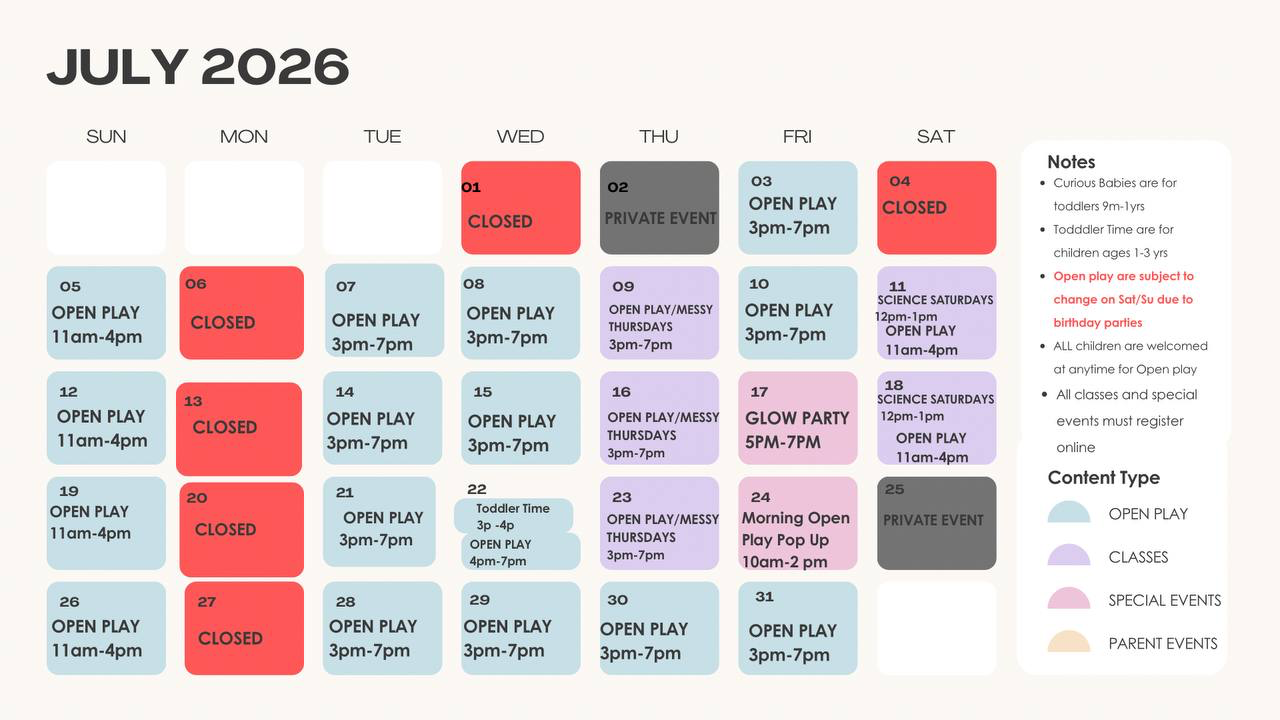
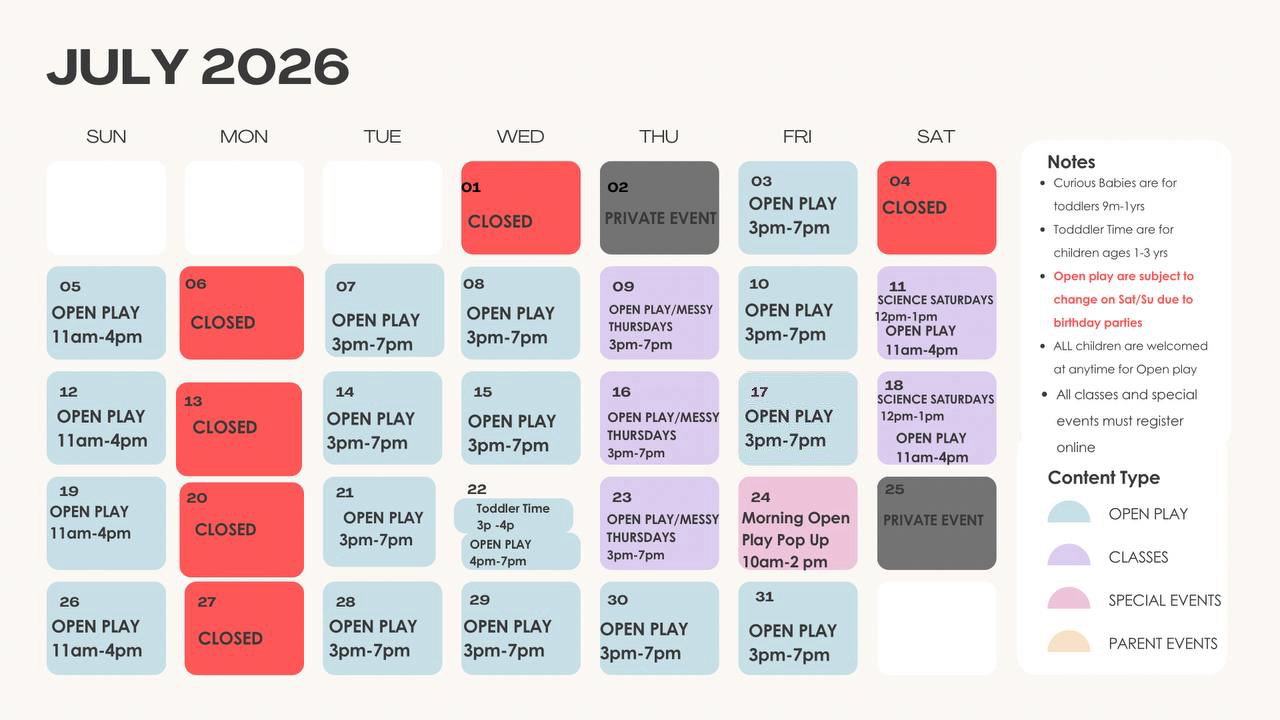
Remove canceled glow party

Changed region(s): [[0.5625, 0.5194, 0.6875, 0.6722]]

diff --git a/strength-resilience-events.html b/strength-resilience-events.html
@@ -668,7 +668,6 @@
                 <option value="">Choose an event</option>
                 <option value="messy">Messy Thursdays</option>
                 <option value="science">Science Saturdays</option>
-                <option value="glow">Let's Glow Crazy Kids</option>
                 <option value="backToSchool">Free Back-to-School Community Day</option>
               </select>
             </div>
@@ -765,48 +764,6 @@
               href="#register"
               data-sr-event-choice="science"
             >Choose a Saturday &amp; register</a>
-          </div>
-        </div>
-      </section>
-
-      <section class="featured-event" aria-labelledby="glow-party-title">
-        <figure>
-          <img
-            src="assets/strength-resilience/lets-glow-crazy-kids.jpeg"
-            alt="Let's Glow Crazy Kids glow-in-the-dark party flyer"
-          />
-        </figure>
-        <div class="featured-event-copy">
-          <span class="eyebrow">Featured July event</span>
-          <h2 id="glow-party-title">Let's Glow Crazy Kids.</h2>
-          <p>
-            A glow-in-the-dark party where kids can dance, play, and make new friends in a bright, sensory-friendly celebration.
-          </p>
-          <div class="event-facts">
-            <div class="event-fact">
-              <strong>Date &amp; time</strong>
-              <span>July 17, 2026 | 5 PM-7 PM</span>
-            </div>
-            <div class="event-fact">
-              <strong>Ages</strong>
-              <span>Children ages 1-8</span>
-            </div>
-            <div class="event-fact">
-              <strong>Admission</strong>
-              <span>$40 | Siblings $25</span>
-            </div>
-            <div class="event-fact">
-              <strong>Early bird</strong>
-              <span>$35 admission</span>
-            </div>
-          </div>
-          <p>319 Easton Rd., Willow Grove, PA</p>
-          <div class="hero-actions" style="margin-top: 20px;">
-            <a
-              class="button primary"
-              href="#register"
-              data-sr-event-choice="glow"
-            >Register for the glow party</a>
           </div>
         </div>
       </section>

diff --git a/assets/strength-resilience/sr-events.js b/assets/strength-resilience/sr-events.js
@@ -30,12 +30,6 @@
         ["2026-08-22", "Saturday, August 22"],
       ],
     },
-    glow: {
-      label: "Let's Glow Crazy Kids",
-      time: "5:00 PM-7:00 PM",
-      paymentUrl: "https://square.link/u/TMuheSKC",
-      dates: [["2026-07-17", "Friday, July 17"]],
-    },
     backToSchool: {
       label: "Free Back-to-School Community Day",
       time: "12:00 PM-4:00 PM",